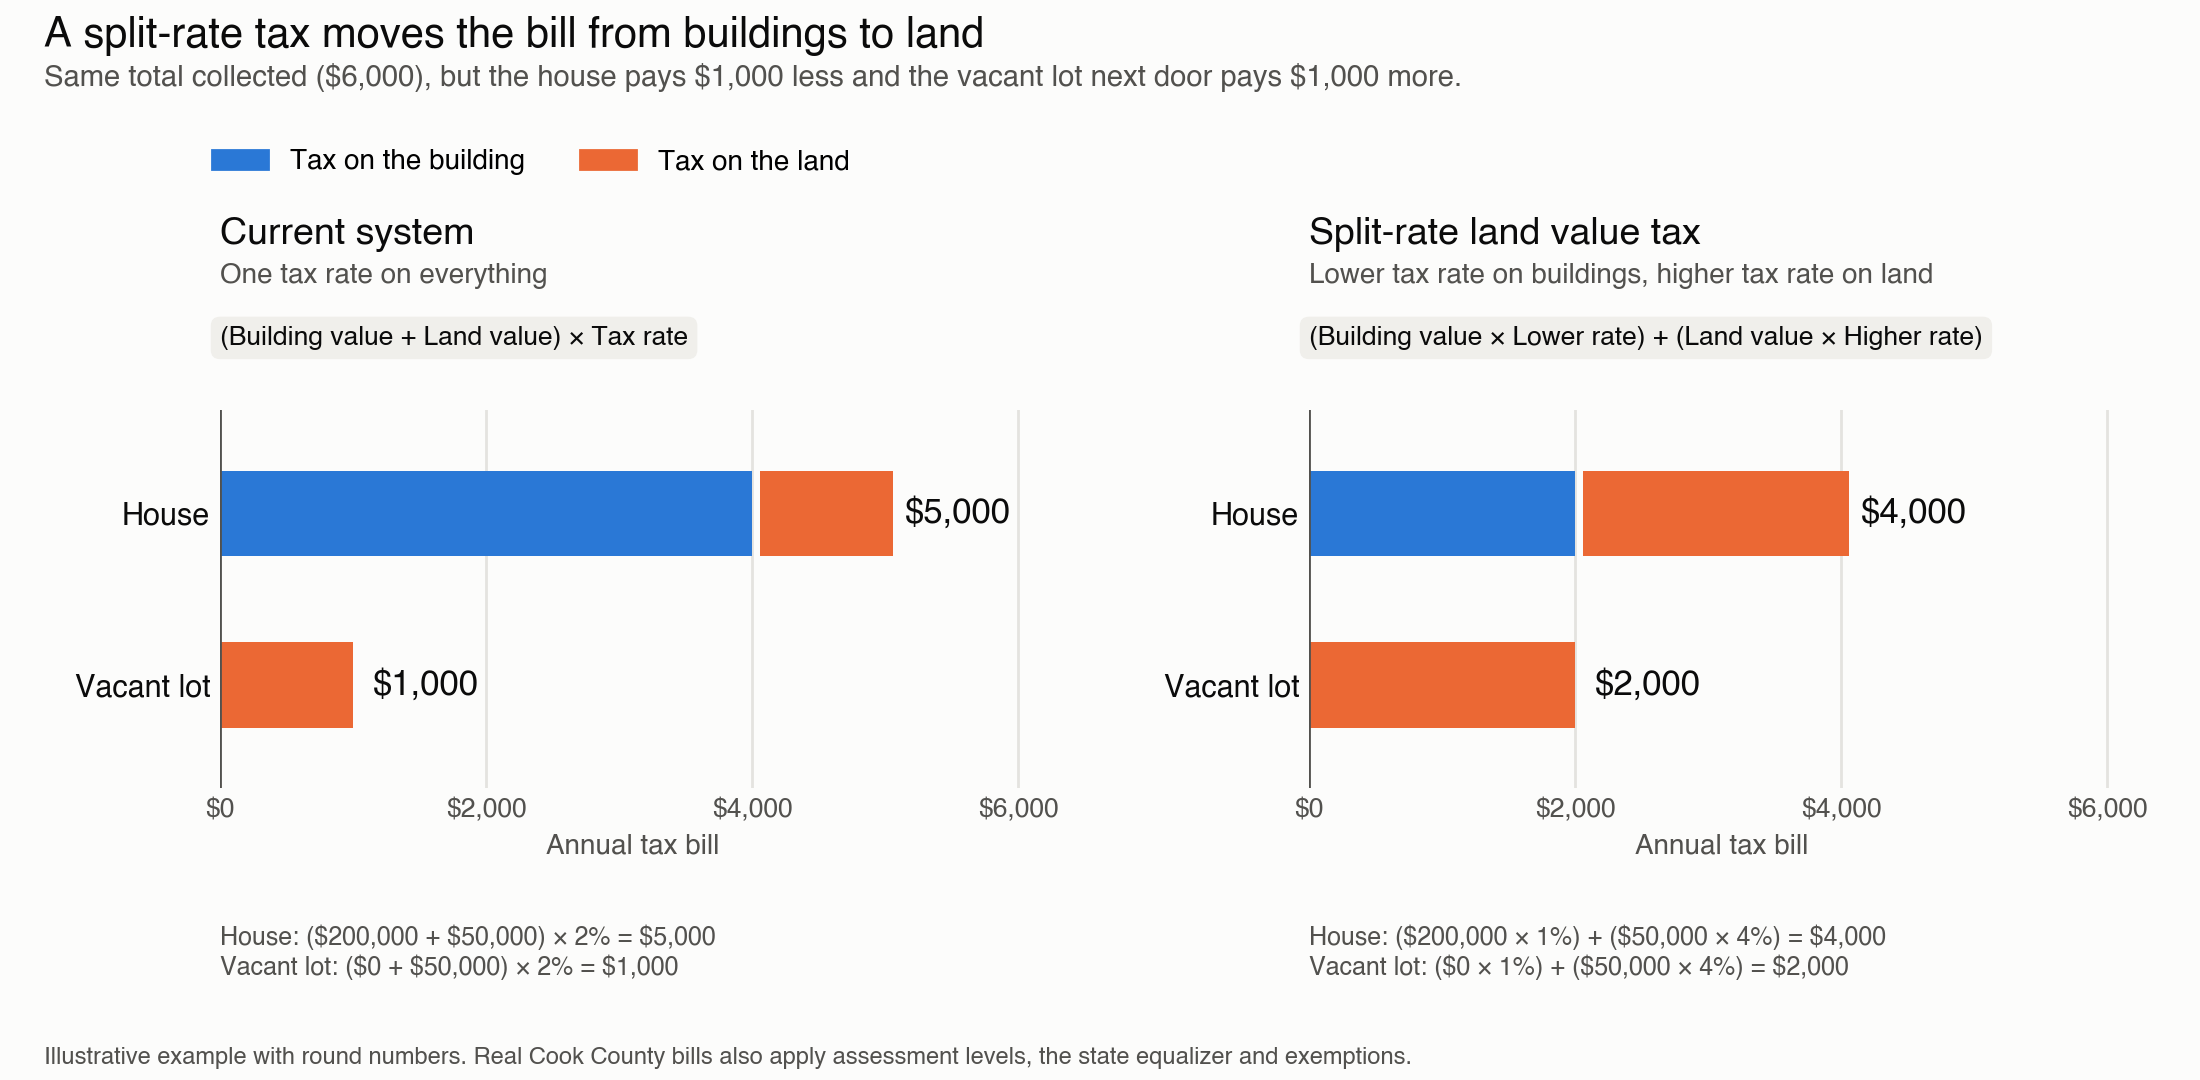
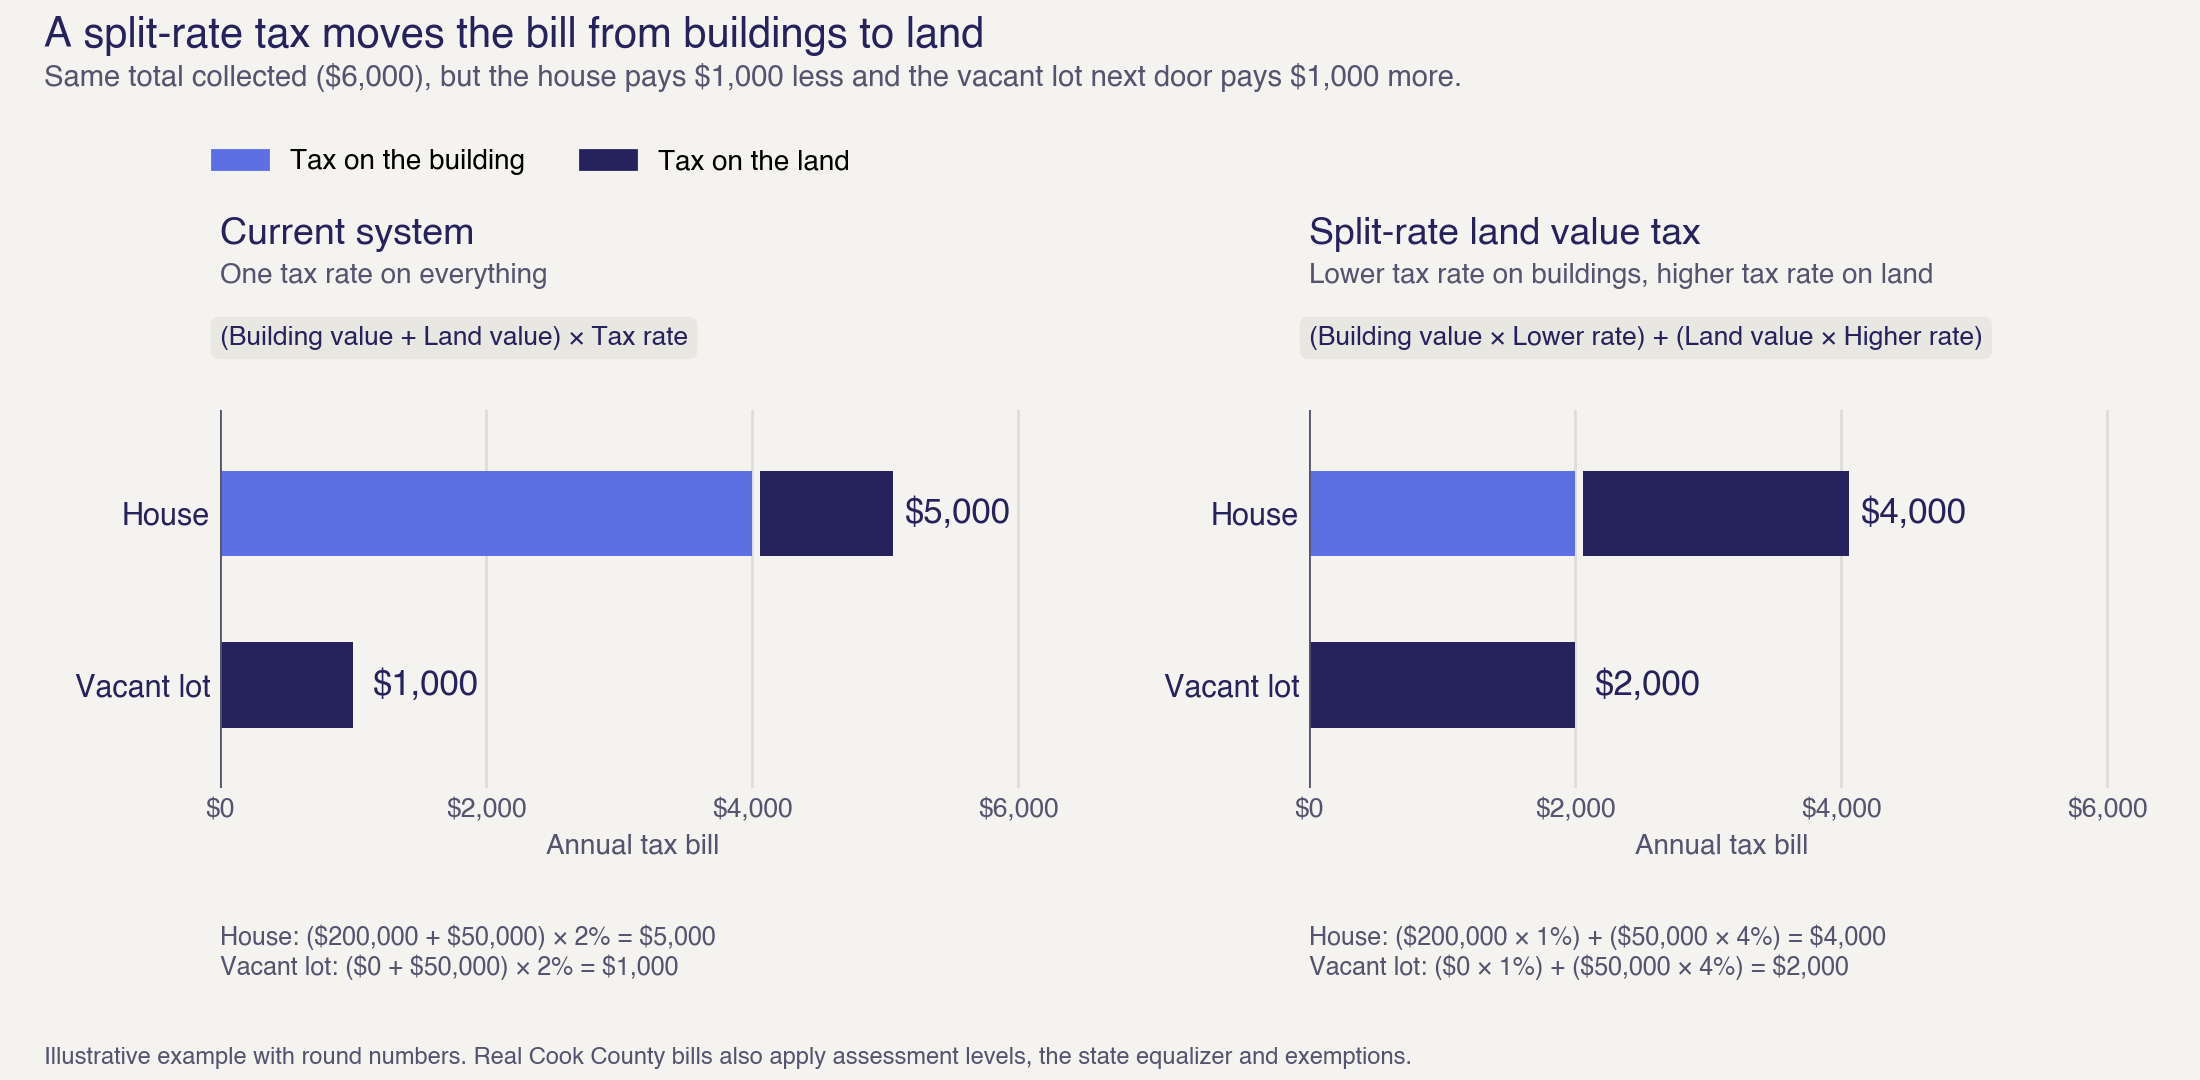
Deploy: companion page adds lots-built-per-year chart, recolored charts

diff --git a/vacant-land-article.html b/vacant-land-article.html
@@ -84,6 +84,7 @@ then use this page to check our work or explore your own township.</div>
 <tr><td>Median vacant parcel pays <span class='fig'>+$890</span>; single-family home <span class='fig'>−$57</span>; large multifamily <span class='fig'>−$193</span></td><td>Same model, median change per parcel. <a href='#model'>Section 4</a></td></tr>
 <tr><td><span class='fig'>1,767</span> vacant lots were built on between 2023 and 2024</td><td>Class 1-00 in TY2023, building class in TY2024. <a href='#redeveloped'>Section 5</a></td></tr>
 <tr><td>Their assessed value rose <span class='fig'>893%</span>; their bills rose <span class='fig'>$54 million</span></td><td>Board of Review values and actual bills. <a href='#redeveloped'>Section 5</a></td></tr>
+<tr><td>Since the 2008 change, fewer vacant lots get built on</td><td>Year-over-year class changes, 2000–2026. <a href='#since2008'>Section 5</a></td></tr>
 <tr><td>Total tax billed in Cook County rose <span class='fig'>4.7%</span> in 2024</td><td>Cook County Clerk, 2024 Tax Rate Report. <a href='#redeveloped'>Section 5</a></td></tr>
 </tbody></table></div>
 
@@ -103,7 +104,7 @@ governments are usually exempt and are not in these counts.</p>
 <p>The corner of 63rd and Halsted in Englewood (PIN 20-20-207-015) held a commercial building until September 2014,
 when the City demolished it under an emergency wrecking permit after a fire. The land&rsquo;s value didn&rsquo;t change.
 Its classification did: from <b>5-92 commercial</b> (25% assessment level) to <b>1-00 vacant land</b> (10%).</p>
-<figure><a href='vacant-land-article-assets/6300-s-halsted-chart.png'><img src='vacant-land-article-assets/6300-s-halsted-chart.png' alt='Line chart, 2009 to 2025: the land market value at 6300 S Halsted stayed about $95,700 before and after the September 2014 demolition, while the property tax bill fell from $16,782 in 2014 to $1,753 in 2015.'></a>
+<figure><a href='vacant-land-article-assets/6300-s-halsted-chart-log.png'><img src='vacant-land-article-assets/6300-s-halsted-chart-log.png' alt='Line chart on a logarithmic scale, 2009 to 2025: the land market value at 6300 S Halsted stayed about $95,700 before and after the September 2014 demolition, while the property tax bill fell from $16,782 in 2014 to $1,753 in 2015.'></a>
 <figcaption>Land market value = land assessed value ÷ assessment level.</figcaption></figure>
 </div>
 <div class='wide'><div class='scroll'><table>
@@ -192,6 +193,16 @@ Assessor catching up on an existing building. <a href='vacant-land-redeveloped-2
 <p class='small'><b>New revenue or relief?</b> For taxing bodies under the state&rsquo;s tax cap (PTELL), new construction
 raises the levy they may collect, so it is new revenue. For bodies that set their levy regardless of the tax base, the
 new value instead lowers everyone else&rsquo;s rate a little. Cook County has both kinds.</p>
+
+<h3 id='since2008'>Fewer vacant lots get built on than before 2008</h3>
+<p>In 2008 the Cook County Board passed <a href='https://www.cookcountyclerkil.gov/sites/default/files/publications/2008ordinances.pdf#page=184'>Ordinance 08-O-51</a>,
+which lowered the assessment level for vacant land from 22% to 10% starting in tax year 2009. Before the change, about
+3,000 vacant lots a year got a building. Since 2014 it has been about 1,000 to 1,300 a year. The change took effect
+during the recession and financial crisis, so the drop can&rsquo;t be blamed on it alone, but a lower assessment level
+hasn&rsquo;t brought construction back.</p>
+<figure><a href='vacant-land-article-assets/vacant-built-by-year.png'><img src='vacant-land-article-assets/vacant-built-by-year.png' alt='Bar and line chart, 2000 to 2026: about 3,000 to 3,300 vacant lots a year got a building before 2008; the number fell to 639 in 2011 and has been about 600 to 1,800 a year since, with a 5-year average of 1,191 in 2026. The recession and the 2009 assessment cut are marked.'></a>
+<figcaption>Parcels classed 1-00 in one tax year and in a class 2, 3 or 5 building class the next. Source: Cook County Assessor,
+<a href='https://datacatalog.cookcountyil.gov/d/nj4t-kc8j'>Parcel Universe</a> (nj4t-kc8j).</figcaption></figure>
 
 <h2 id='splitrate'><span class='n'>6</span>Why this isn&rsquo;t a split-rate land value tax</h2>
 <p>A <b>split-rate land value tax</b>, used by Harrisburg, Allentown and other Pennsylvania cities, taxes land at a
